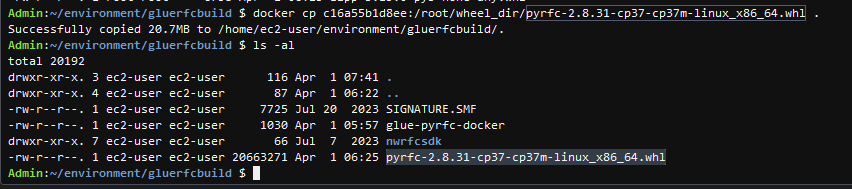
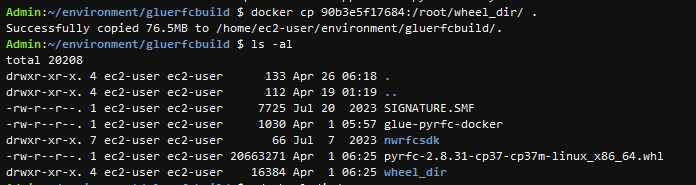
updated Readme and image files by Thaun - Apr 26,2024

diff --git a/README.md b/README.md
@@ -85,17 +85,17 @@ docker exec <Container ID> ls -al /root/wheel_dir
 ```
 ![1.dockerexecls](./guidanceImage/1.dockerexecls.png)
 
-Copy the .whl file with file name started with pyrfc- built from Container to Cloud9 folder. We will use this file later to upload to S3.
+Copy wheel_dir folder that contain the .whl file with file name started with pyrfc- built from Container to Cloud9 folder. We will use this file later to upload to S3.
 ```bash
 # Copy .whl out of docker to cloud9. Remember to replace your Container ID
 # and re-confirm the pyrfc file name again to match with your container
-docker cp <Container ID>:/root/wheel_dir/pyrfc-2.8.31-cp37-cp37m-linux_x86_64.whl .
+docker cp <Container ID>:/root/wheel_dir/ .
 ```
 ![1.dockercp](./guidanceImage/1.dockercp.png)
 
-Use the following command to upload the created **.whl** file to Amazon S3. Note: Modify the **file name, bucket name** and **folder name** according to your environment! 
+Use the following command to upload **.whl** file with file name started with pyrfc- to Amazon S3. Note: Modify the **bucket name** and **folder name** according to your environment! 
 ```bash
-aws s3 cp pyrfc-2.8.31-cp37-cp37m-linux_x86_64.whl s3://<bucket name>/<folder name>/
+aws s3 cp ./wheel_dir/pyrfc*.whl s3://<bucket name>/<folder name>/
 ```
 ![1.s3cp](./guidanceImage/1.s3cp.png)
 
@@ -207,8 +207,6 @@ Click **Save** to create the job and now you can **Run** the job
 Finally, navigate to your Amazon S3 bucket and validate the extracted file. 
 
 ![3.s3extracteddata](./guidanceImage/3.s3extracteddata.png)
-
-## 
 
 ## Security
 
